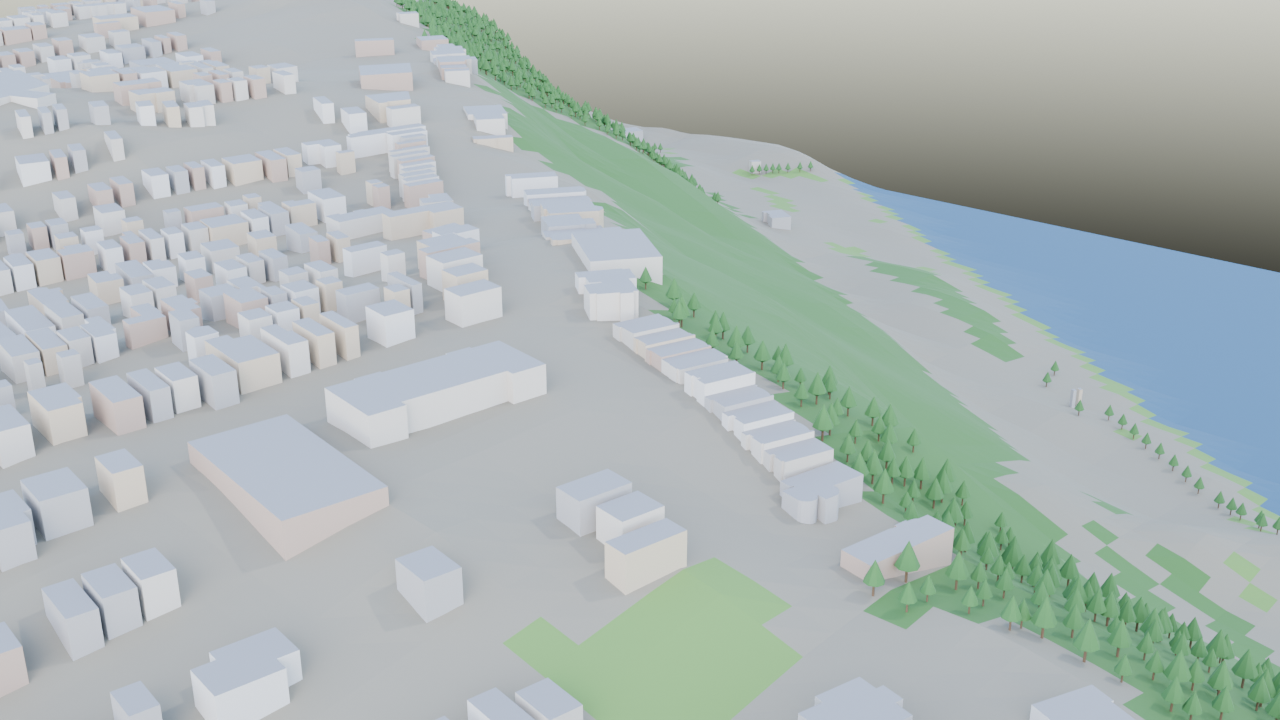
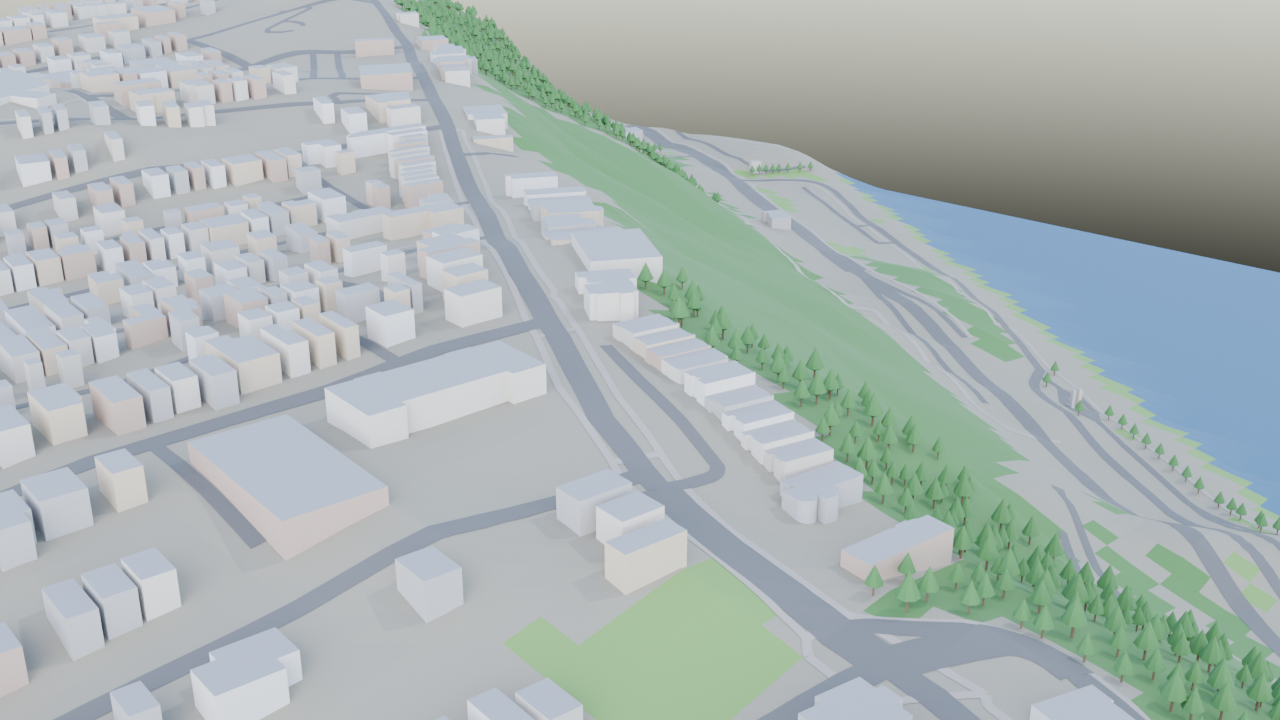
docs: finalize roads-on Pittsburgh and roof release evidence
Include merged PRs 18, 19 and 20; retain unsupported bridges and tunnels and strict validation diagnostics.

diff --git a/docs/demo/v0.1.0/README.md b/docs/demo/v0.1.0/README.md
@@ -110,8 +110,9 @@ Generate button supports that override; see the caveat in the generation guide.
 ## Recorded candidate checks
 
 Blender 4.2.23 LTS, Windows x64, Cycles **CPU**, 1200 x 800, 16 samples.
-All images and package evidence were refreshed after rebasing onto the merged
-DSM baseline (`23a102ebcf3a1029e1553c31a0e7f762fe9f2eb2`).
+All images and package evidence were refreshed after rebasing onto main
+`e5ed1fa4dc0554582b47f063adae0cb2a68304fe`, including the new roofs (#18),
+structure routing (#19) and real-terrain road-normal fix (#20).
 The [machine-readable evidence](evidence.json) records the exact package
 identities and geometry check. Timestamps change package identities on rerun.
 
@@ -130,24 +131,23 @@ identities and geometry check. Timestamps change package identities on rerun.
 but the shared kit's separate Mesa llvmpipe runtime successfully captured the
 real 1920 x 1129 Blender window above. The screenshot uses the committed sample,
 package identity
-`sha256:93446c4fda224f97e3915de51b393dede0b0b705376545f32fe67ba9a02abb43`.
+`sha256:ef66b4a5be150186ece546d983916f0c3595b1faf39cec040018b2773d44337b`.
 It verifies visible panel layout, not an online-acquisition or simulator test.
 
-**DSM scope:** this candidate includes merged correction (#11). The offline
+**Synthetic DSM scope:** this candidate includes merged correction (#11). The offline
 local-file demo keeps its default Auto setting, so correction is off; these
-images do not demonstrate DSM lowering or flyable passages. Follow the
+synthetic images do not demonstrate DSM lowering or flyable passages. Follow the
 [DSM user guide](../../user/generate.md#dsm-terrain-correction-inferred-ground-preview)
 for settings, comparison steps, reports and approximation limits.
 Release review and coordinator authorization remain required before tagging.
 
-## Real-data example: Pittsburgh DSM Off / On (interim, roads disabled)
+## Real-data example: Pittsburgh DSM Off / On (default content, roads enabled)
 
-**Not release acceptance yet.** The default-content Pittsburgh export exposed
-a road winding error: `road object #1012 has 1 non-degenerate triangle(s) whose
-normal does not point up (z <= 0)`. The coordinator requires BUG-ROAD-NORMALS to
-merge, followed by a default-content rerun with roads enabled, before this
-release is reviewed again. These interim images use the supported **Roads off**
-content setting, not a validator bypass or a product-code modification.
+Both packages were rebuilt and strictly validated after BUG-ROAD-NORMALS (#20)
+merged. **Roads are enabled**, along with the default buildings, trees and
+vegetation content. These renders replace the earlier interim roads-disabled
+images. No validator bypass, omitted road layer or product-code modification
+is used by the demo.
 
 Area D26 is centred at **40.437 N, 80.016 W**, **1200 x 1000 m**, covering
 Fort Pitt Bridge and the north Fort Pitt Tunnel portals. The southern tunnel
@@ -157,13 +157,13 @@ ENU metres and are fixed for the DSM pair and subsequent v0.2.0 comparison.
 
 | Same camera | DSM Off | DSM On |
 |---|---|---|
-| Real-area overview | ![Pittsburgh overview DSM Off, roads disabled](pittsburgh-overview-off.png) | ![Pittsburgh overview DSM On, roads disabled](pittsburgh-overview-on.png) |
-| Hillside ground detail | ![Pittsburgh ground DSM Off, roads disabled](pittsburgh-dsm-off.png) | ![Pittsburgh ground DSM On, roads disabled](pittsburgh-dsm-on.png) |
+| Real-area overview | ![Pittsburgh overview DSM Off, roads enabled](pittsburgh-overview-off.png) | ![Pittsburgh overview DSM On, roads enabled](pittsburgh-overview-on.png) |
+| Hillside ground detail | ![Pittsburgh ground DSM Off, roads enabled](pittsburgh-dsm-off.png) | ![Pittsburgh ground DSM On, roads enabled](pittsburgh-dsm-on.png) |
 
 | v0.2.0 baseline camera | v0.1.0: unsupported structure omitted |
 |---|---|
-| Fort Pitt Bridge approach | ![Bridge baseline, no generated deck, roads disabled](pittsburgh-bridge-baseline.png) |
-| North tunnel portals | ![Tunnel baseline, no generated tube, roads disabled](pittsburgh-tunnel-baseline.png) |
+| Fort Pitt Bridge approach | ![Bridge baseline, no generated deck, roads enabled](pittsburgh-bridge-baseline.png) |
+| North tunnel portals | ![Tunnel baseline, no generated tube, roads enabled](pittsburgh-tunnel-baseline.png) |
 
 The bridge/tunnel views are **absence baselines**, not fly-through evidence:
 no bridge deck, tube, portals or passage probes are generated in v0.1.0. Their
@@ -174,16 +174,21 @@ participate in the DSM mask.
 
 Acquired online on **2026-11-19** through the normal pipeline: public Copernicus
 AWS tiles and public Overpass. Two initial optional mask requests failed;
-attempt 3 succeeded. The normal response was reused from the fresh run's cache,
-then the same acquired elevation grid and classified OSM snapshot were
-deep-copied for Off and On, eliminating differences between network responses
-from the comparison. No existing user's data/cache or demo server was used.
+attempt 3 succeeded. The final rerun copies that throwaway acquisition's raw
+cache into a new output directory and **reclassifies with the current code**:
+the older pickled classification predates #19 and is not reused. Both normal
+and mask responses are cache hits with the original timestamps. The same
+newly acquired elevation grid and classified OSM snapshot are then deep-copied
+for Off and On, eliminating network-response differences from the comparison.
+No existing user's data/cache or demo server was used.
 
 | Evidence | Off | On |
 |---|---|---|
-| Validation | VALID, 0 errors, 0 warnings | VALID, 0 errors, 0 warnings |
-| Objects (roads disabled) | 3011 | 2988 |
-| Build + package validation, excluding acquisition | 15.046 s | 17.563 s |
+| Validation | VALID, 0 errors, 1 warning | VALID, 0 errors, 1 warning |
+| Zero-area collision triangles (reported, allowed) | 74 | 75 |
+| Objects / road objects | 3269 / 258 | 3246 / 258 |
+| Collision triangles | 133336 | 132312 |
+| Build + package validation, excluding acquisition | 32.890 s | 18.281 s |
 | Vertical offset, EGM2008 | 213 m | 213 m |
 | Terrain samples | 12221 | 12221 |
 | Masked / lowered samples | 0 / 0 | 8532 / 5201 |
@@ -195,10 +200,22 @@ The object counts differ because terrain-dependent building eligibility changes;
 the On report has 23 additional invalid features. This is not a promise that
 every building improves or that hidden relief is accurately recovered.
 
+Both complete Pittsburgh packages also passed the C# reference reader (`OK`).
+Build times above are single wall-clock observations on a shared machine,
+including planning, export and package validation; they are not a benchmark
+or a guarantee that On is faster than Off.
+
+The validator reports zero-area triangles as warnings; **non-degenerate
+downward-facing road triangles still fail**. Both modes also report two
+fully covered road ribbons represented by higher-priority roads and the
+2000-tree scatter limit. Road `osm:way/11826594` records `slivers_dropped`:
+one face, maximum width 0.000012 m and total area 0.000012 m2. The #20 fix
+drops that unrepresentable face instead of relaxing the validator.
+
 Off package identity:
-`sha256:f29f8ea79107b22232c0efe8f182048bfd5690641b37ffda2efc963fba7248c5`.
+`sha256:2a8aa7e1b41e7ae76f84a75e69adb7631d5455acfa82da9f3718ad7a890dd076`.
 On package identity:
-`sha256:12f94aff221a91cff5364e38ddbae378d2370fe3732159ae3fcac8dec5ea43d7`.
+`sha256:5abdabef613b43bbf62cb4eb6a2528e6d0857e55c708b26795638705f26fedba`.
 Normal OSM base timestamp: `2026-11-19T15:38:06Z`;
 mask response: `2026-11-19T15:40:08Z`.
 Copernicus tile: `Copernicus_DSM_COG_10_N40_00_W081_00_DEM`,
@@ -211,10 +228,10 @@ areas can lose real relief.
 
 ### Exact acquisition, package, viewer and summary commands
 
-Run from the v0.1.0 source root with Python 3.12. This **interim** command
-explicitly disables roads; replace that setting with the default after the
-road fix is merged and regenerate final evidence. No network credentials are
-needed. Blender online UI permission is not involved in this Python process;
+Run from the v0.1.0 source root with Python 3.12. This command uses default
+content, **including roads** (`PlanOptions(seed=1)`); seed 1 is fixed to match
+the recorded comparison. No network credentials are needed.
+Blender online UI permission is not involved in this Python process;
 inside Blender enable **Preferences > System > Network > Allow Online Access**.
 
 ```powershell
@@ -245,7 +262,7 @@ with (root / "acquired.pickle").open("wb") as stream:
     pickle.dump((grid, classified, sources), stream)
 for mode, enabled in (("off", False), ("on", True)):
     plan = build_plan(Area(40.437, -80.016, 1200, 1000), copy.deepcopy(grid),
-                      copy.deepcopy(classified), PlanOptions(seed=1, roads=False),
+                      copy.deepcopy(classified), PlanOptions(seed=1),
                       dsm_correction=enabled)
     if enabled and not plan.report["terrain_correction"]["applied"]:
         raise RuntimeError(json.dumps(plan.report["terrain_correction"]))

diff --git a/CHANGELOG.md b/CHANGELOG.md
@@ -18,6 +18,10 @@ release review and coordinator authorization.
 - Editable terrain, buildings with basic roof shapes and courtyards, draped roads,
   water and procedural vegetation; reports distinguish inferred and unsupported
   content (#3, #5).
+- Additional OSM roofs: half-hipped, gambrel, mansard, round and saltbox on
+  rectangular footprints; dome and onion on convex footprints.
+  `roof:orientation` and `roof:direction` are honored, with reported
+  inferred/fallback provenance for unsupported or ill-fitting shapes (#18).
 - Export final evaluated Blender meshes, including modifiers, transforms, mirrors,
   duplicates and user geometry, into GLB visuals and authoritative collision in an
   atomic `.mbmap` package. Include optional terrain heightfield, georeference,
@@ -33,7 +37,8 @@ release review and coordinator authorization.
 - Reusable demo kit with Cycles CPU renders, a bundled three.js viewer, probe
   results and real Blender-sidebar capture using a separate Mesa runtime (#14).
 - End-user installation, generation, export and simulator-handoff guides, UI flow
-  diagrams and an offline synthetic demo with reproducible renders (REL-v0.1.0).
+  diagrams, synthetic editing demo and real Pittsburgh DSM Off/On comparison
+  with reproducible renders and reusable cameras (REL-v0.1.0).
 
 ### Changed
 
@@ -52,19 +57,31 @@ release review and coordinator authorization.
   samples remain unmasked, or the fill does not converge, generation warns and
   uses the original surface model. Required source-data failures still stop
   generation; no flat or fabricated terrain is substituted (#11).
+- The committed synthetic sample's way/1043 now has a dome rather than a flat
+  fallback; its identity changed and collision count increased to 4987
+  triangles (#18).
+- Internal structure routing and stage hooks prepare later feature work without
+  changing generated output or reports. **Bridges and tunnels remain unsupported
+  and omitted**; this is not a new flyable-structure feature (#19).
 
 ### Fixed
 
 - Reject oversized terrain/heightfield requests before network or file access (#6).
 - Reject impossible calendar dates in `created_utc` in both reference readers (#8).
 - Recognize split OSM part identities such as `osm:way/123#1` during validation (#9).
+- Real-terrain road exports no longer fail upward-normal validation because of
+  slivers below float32 storage resolution. Only unrepresentable, failing faces
+  are omitted and reported as `slivers_dropped` provenance; wider folded faces
+  still reject the road. Pittsburgh drops one 0.000012 m-wide face per DSM
+  mode; validator rules and the synthetic sample are unchanged (#20).
 
 ### Known limitations
 
 - Bridges and tunnels are reported unsupported; elevated buildings are closed
   solids, not flyable passages. No interiors, streaming or LOD.
 - Visuals are procedural, flat-shaded and untextured; no performance guarantee.
-- Online acquisition is not exercised by CI or the offline release demo.
+- Online acquisition is not exercised by CI. The Pittsburgh demo uses a recorded
+  online acquisition; provider availability and live-data changes still apply.
 - DSM correction is an approximation, not a bare-earth DTM: hidden relief is
   smoothed, edge-touching fills level off, and unmapped buildings/trees are not
   corrected.

diff --git a/docs/releases/v0.1.0.md b/docs/releases/v0.1.0.md
@@ -8,6 +8,10 @@ collision in a validated `.mbmap` package.
 
 - Terrain, buildings with basic roofs and courtyards, draped roads, water and
   procedural vegetation as ordinary editable Blender objects.
+- More OSM roof shapes: half-hipped, gambrel, mansard, round and saltbox on
+  rectangles; dome and onion on convex footprints, with roof orientation/direction
+  handling and explicit fallback provenance. The synthetic sample now includes
+  a dome and has 4987 collision triangles.
 - Final evaluated mesh export, including transforms, mirrors and modifiers:
   GLB visuals, matching collision, optional heightfield, georeference, integrity
   hashes, attribution and orientation probes.
@@ -16,6 +20,12 @@ collision in a validated `.mbmap` package.
   unchanged. CLI overrides are `--dsm-correction` / `--no-dsm-correction`.
 - Package schema **2.0.0**, Python validation, a synthetic sample, C# reference
   reader and a reusable demo/viewer kit.
+- Fixed real-terrain road export failures caused by below-float32-resolution
+  slivers: omit only unrepresentable failing faces and record `slivers_dropped`
+  provenance. The strict upward-facing validator rule is unchanged.
+- Internal structure routing/stage hooks prepare future work without changing
+  generated content. **Bridges and tunnels are still unsupported and omitted**;
+  no flyable bridge or tunnel is introduced by this groundwork.
 
 ## Install the published extension zip
 
@@ -57,7 +67,9 @@ one documented warning. Replace the sample path to validate your own package.
 
 The [demo evidence and exact reproduction commands](https://github.com/lingshf/map-builder/blob/v0.1.0/docs/demo/v0.1.0/README.md)
 cover synthetic editing, the real Pittsburgh area, same-camera DSM Off/On,
-and generation of the three.js viewer bundle and summary.
+and generation of the three.js viewer bundle and summary. The Pittsburgh
+comparison uses default content with **roads enabled** in both strictly
+validated packages; documented zero-area-triangle warnings are not hidden.
 See the [export guide](https://github.com/lingshf/map-builder/blob/v0.1.0/docs/user/export.md)
 and [simulator handoff status](https://github.com/lingshf/map-builder/blob/v0.1.0/docs/user/simulator.md).
 

diff --git a/docs/user/generate.md b/docs/user/generate.md
@@ -104,3 +104,19 @@ remains **2.0.0**.
 and hollows inside large masks are smoothed, fills touching an area edge level
 off, and buildings or trees missing from OSM remain uncorrected. Masking a
 bridge deck does not generate a flyable bridge or tunnel.
+
+## Roof shapes and road-export diagnostics
+
+OSM `roof:shape` supports flat, gabled, hipped, pyramidal and skillion, plus
+half-hipped, gambrel, mansard, round and saltbox on rectangles and dome/onion
+on convex footprints. Roof orientation and direction tags influence supported
+shapes. Unsupported or ill-fitting shapes fall back with `fallback:` provenance;
+inspect the report rather than assuming every tagged roof is reproduced.
+The synthetic sample's way/1043 demonstrates a dome.
+
+On steep real terrain, a road face thinner than float32 can represent may be
+omitted if storing it would make it non-upward-facing. `slivers_dropped` in the
+road's provenance records the count, maximum width and total area. This is
+not general road simplification: wider folded faces remain invalid and package
+validation is not relaxed. Bridges and tunnels are still omitted even though
+internal structure routing is in place.
